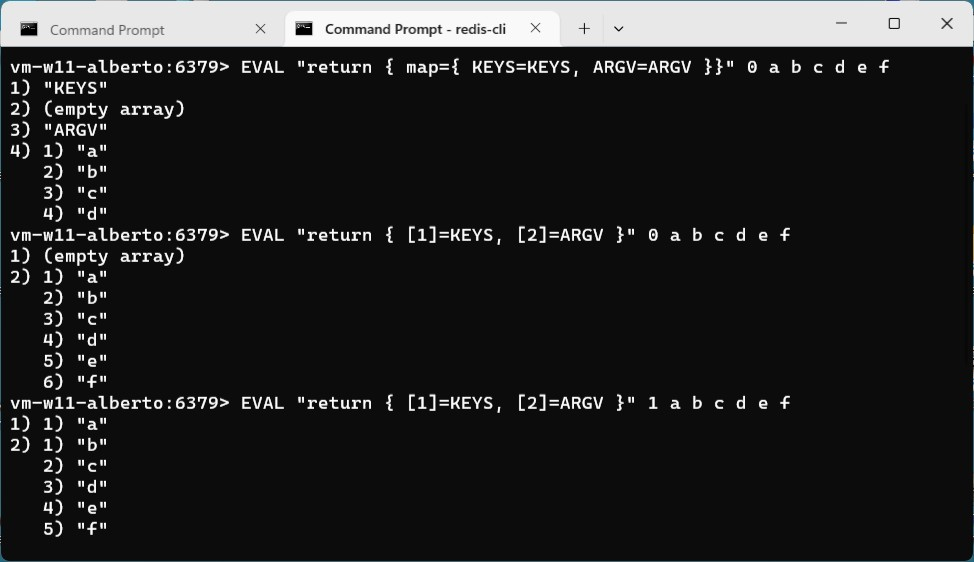
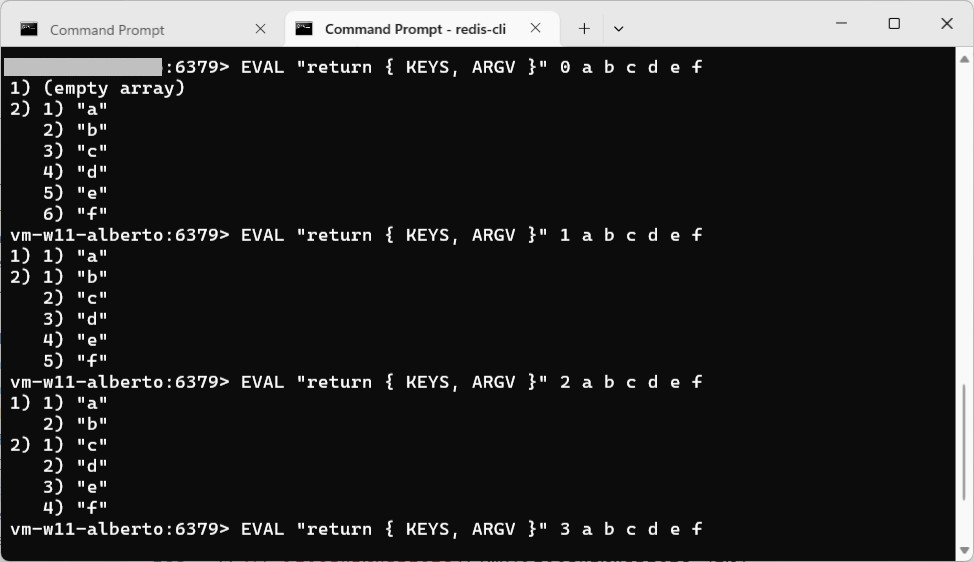
minor tipo fix

diff --git a/ScriptingWithLua.md b/ScriptingWithLua.md
@@ -573,7 +573,7 @@ EVAL script numkeys [key [key ...]] [arg [arg ...]]
 
 The `numkeys` matters, for example in the following script: 
 ```
-EVAL "return { [1]=KEYS, [2]=ARGV }" 0 a b c d e f
+EVAL "return { KEYS, ARGV }" 0 a b c d e f
 ```
 
 Or in RESP3: 
